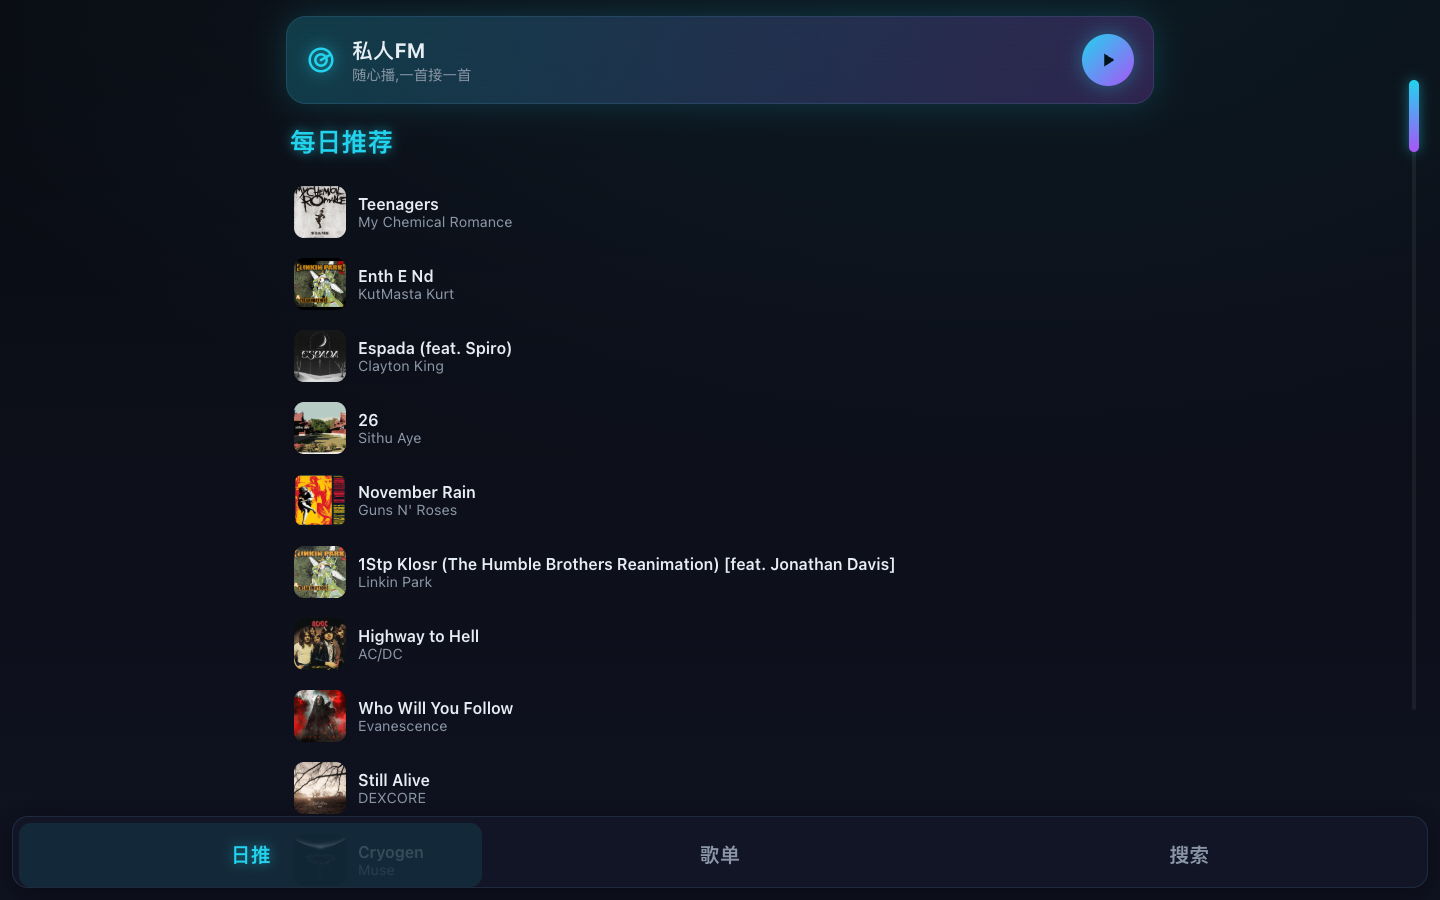
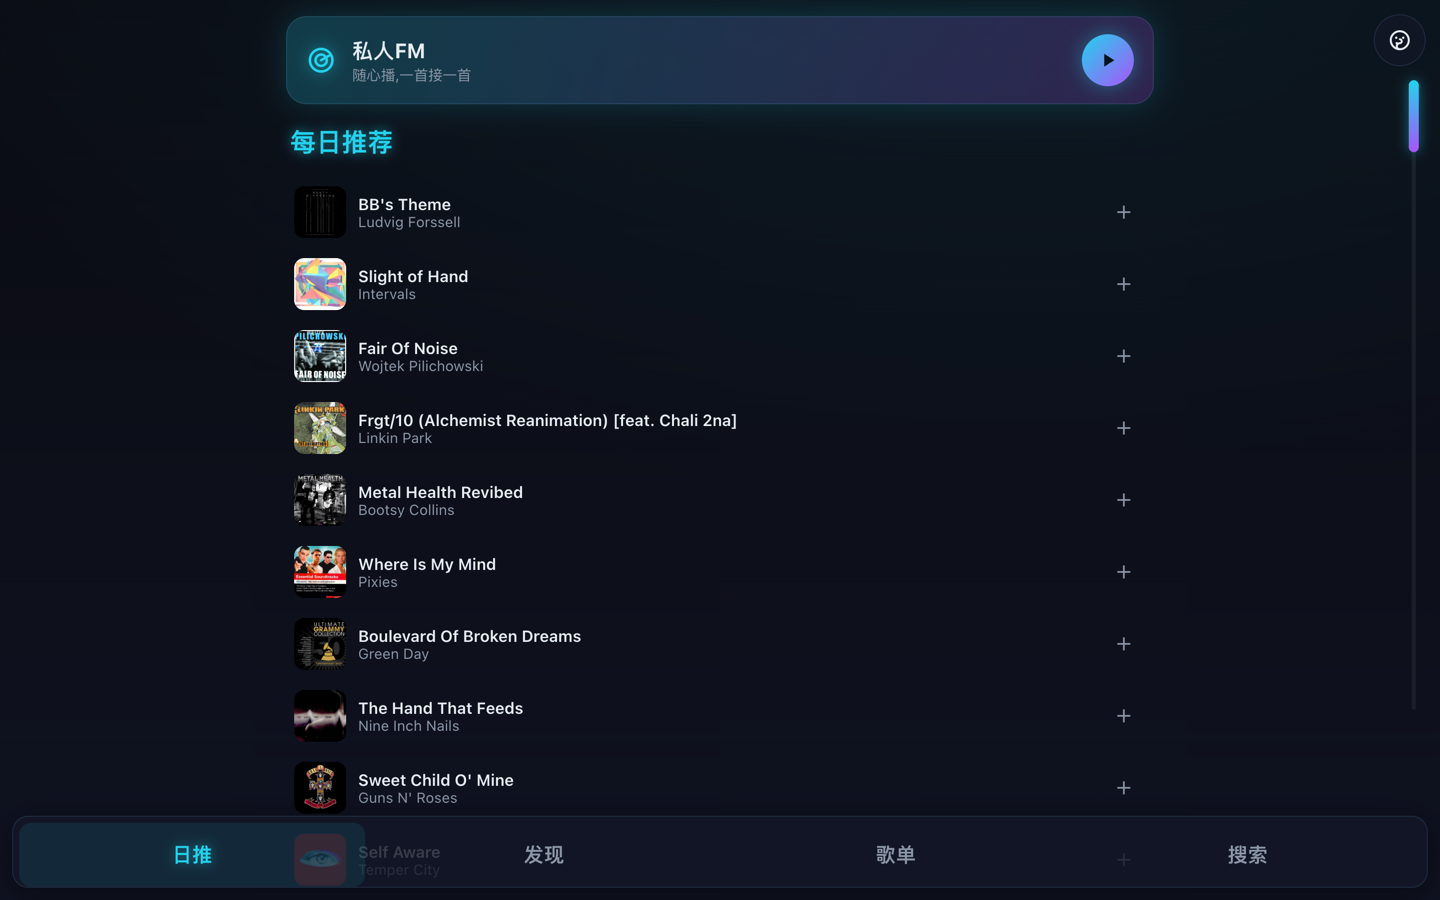
docs: DEPLOY.md 正式化 + 更新界面截图
- DEPLOY.md 口吻与 README 对齐(保留全部步骤与 #mac/#nas/#vps 锚点)。
- 三张界面截图重新采集为当前 UI:首页私人FM、分栏播放页(中英对照
  滚动歌词)、我的歌单网格。

diff --git a/DEPLOY.md b/DEPLOY.md
@@ -1,85 +1,85 @@
 # 部署指南
 
-这套程序是两个容器:`app`(网页 + 后端)和 `ncm-api`(网易云接口)。要让特斯拉用上,需要把它跑在某台机器上,并给一个**公网 https 地址**让车机浏览器打开。
+本项目由两个容器组成:`app`(网页 + 后端)与 `ncm-api`(网易云接口)。部署的目标是将其运行在一台常开机器上,并对外提供一个 **公网 HTTPS 地址**,供特斯拉车机浏览器访问。
 
-下面按设备分三种,挑一种就行。
+下列三种宿主环境任选其一:
 
-- [Mac / 电脑,先试试](#mac)
-- [群晖 NAS(常年在线,推荐)](#nas)
+- [Mac / 本地电脑](#mac)
+- [群晖 NAS(推荐)](#nas)
 - [VPS / 云服务器](#vps)
 
-先决条件都一样:装 Docker,准备好手机(扫码登录用一次)。
+**先决条件**:已安装 Docker;一部手机用于扫码登录(仅需一次)。
 
 ---
 
 <a id="mac"></a>
 
-## A. Mac / 电脑,先试试
+## A. Mac / 本地电脑
 
-适合先在车上体验一下。用车时电脑要开着、脚本窗口要留着。
+适用于快速体验。使用期间需保持电脑开机、脚本窗口保留。
 
-1. 安装并打开 [Docker Desktop](https://www.docker.com/products/docker-desktop/)。
-2. 下载项目并运行脚本:
+1. 安装并启动 [Docker Desktop](https://www.docker.com/products/docker-desktop/)。
+2. 获取项目并运行部署脚本:
    ```bash
    git clone https://github.com/JovanCai/TeslaNetEaseMusic.git
    cd TeslaNetEaseMusic
    ./deploy.sh
    ```
-3. 按提示用手机网易云 App 扫码登录。脚本最后会打印一行
+3. 按提示使用手机网易云 App 扫码登录。脚本结束时输出一行
    `https://xxxx.trycloudflare.com`。
-4. 把这行地址在**特斯拉车机浏览器**里打开。
+4. 在特斯拉车机浏览器中打开该地址。
 
-这个临时地址每次运行会变。想要固定地址,看下面的群晖或 VPS 方案。
+该临时地址每次运行都会变化。如需固定地址,请采用群晖或 VPS 方案。
 
 ---
 
 <a id="nas"></a>
 
-## B. 群晖 NAS(常年在线,推荐)
+## B. 群晖 NAS(推荐)
 
-群晖一直开机,适合天天用。**没有公网 IP 也可以** —— Cloudflare 隧道由群晖主动向外连接,Cloudflare 给你一个公网 https 地址,不用开端口映射。
+群晖常年开机,适合长期使用。**无需公网 IP** —— Cloudflare Tunnel 由群晖主动向外建立连接,由 Cloudflare 分配公网 HTTPS 地址,无需端口映射。
 
-需要一个挂在 Cloudflare 上的域名(免费套餐即可;新域名约 ¥100/年)。
+固定地址需要一个托管在 Cloudflare 的域名(免费套餐即可;新域名约 ¥100/年)。
 
-### 1) 在群晖上装 Docker
-DSM 套件中心安装 **Container Manager**(旧版叫 Docker)。
+### 1) 安装 Docker
+在 DSM 套件中心安装 **Container Manager**(旧版名为 Docker)。
 
-### 2) 把代码放到群晖
-用 SSH 登录群晖后:
+### 2) 获取代码
+通过 SSH 登录群晖后执行:
 ```bash
 git clone https://github.com/JovanCai/TeslaNetEaseMusic.git
 cd TeslaNetEaseMusic
 cp .env.example .env
-# 群晖的 80 端口常被 DSM 占用,建议在 .env 设一个别的:
+# 群晖的 80 端口通常被 DSM 占用,建议在 .env 中另设端口:
 #   APP_PORT=8920
 ```
 
-### 3) 选一种上网方式
+### 3) 选择对外访问方式
 
-**不想买域名 → 快速隧道(免费,地址临时但群晖常开时基本不变)**
+**方式一:快速隧道(免费,地址临时;群晖常开时基本稳定)**
 ```bash
 docker compose --profile quick up -d --build
-# 等十几秒,拿地址:
+# 等待约十余秒后获取地址:
 docker compose logs cloudflared-quick | grep -o 'https://[a-z0-9-]*\.trycloudflare\.com'
 ```
-把打印出来的 `https://xxxx.trycloudflare.com` 在特斯拉浏览器打开。群晖重启后地址会变,重新看一次日志即可。
+在特斯拉浏览器中打开输出的 `https://xxxx.trycloudflare.com`。群晖重启后地址会变化,重新查看日志即可。
 
-**想要固定地址(如 `music.你的域名.com`)→ 命名隧道(需要一个加到 Cloudflare 的域名)**
-1. 登录 [Cloudflare Zero Trust](https://one.dash.cloudflare.com/) → **Networks → Tunnels → Create a tunnel** → 选 **Cloudflared** → 起个名 → **Next**。
-2. 到 **Install and Run** 这步:页面给的安装命令里,`service install` 后面那串
-   `eyJhIjoi……` 就是 **token**。**只复制这串 token**,不用下载运行那个安装程序(我们用 Docker 跑)。
-3. 点 **Next** 到 **Route Tunnel / Public Hostname**:
-   - Subdomain 填 `music`(随意),Domain 选你的域名 → 得到 `music.你的域名.com`
-   - Type 选 **HTTP**,URL 填 `app:80` → 保存。
-4. 把 token 填进 `.env`:`CLOUDFLARE_TUNNEL_TOKEN=粘贴那串token`,然后:
+**方式二:命名隧道(固定地址,如 `music.你的域名.com`;需一个已加入 Cloudflare 的域名)**
+1. 登录 [Cloudflare Zero Trust](https://one.dash.cloudflare.com/) → **Networks → Tunnels → Create a tunnel** → 选择 **Cloudflared** → 命名 → **Next**。
+2. 在 **Install and Run** 步骤:页面提供的安装命令中,`service install` 后的
+   `eyJhIjoi……` 即为 **token**。**仅复制该 token**,无需下载运行安装程序(本项目通过 Docker 运行)。
+3. 继续 **Next** 至 **Route Tunnel / Public Hostname**:
+   - Subdomain 填 `music`(可自定义),Domain 选择你的域名,得到 `music.你的域名.com`。
+   - Type 选择 **HTTP**,URL 填 `app:80`,保存。
+4. 将 token 写入 `.env`:`CLOUDFLARE_TUNNEL_TOKEN=粘贴该 token`,然后:
    ```bash
    docker compose --profile tunnel up -d --build
    ```
 
-### 4) 登录一次
-浏览器打开你的地址(快速隧道地址 / `https://music.你的域名.com` / 或群晖局域网 `http://群晖IP:APP_PORT`),用手机扫码登录。cookie 存进数据卷,以后免登录、群晖重启也不丢。
+### 4) 登录
+在浏览器中打开你的地址(快速隧道地址 / `https://music.你的域名.com` / 或群晖局域网 `http://群晖IP:APP_PORT`),使用手机扫码登录。cookie 存入数据卷,后续免登录,群晖重启也不丢失。
 
-> 用 Container Manager 图形界面也行:把项目建成一个“项目(Project)”,选 `docker-compose.yml`,环境变量里填好 `.env` 的内容;命令行更省事。
+> 也可使用 Container Manager 图形界面:将项目创建为一个 **项目(Project)**,选择 `docker-compose.yml`,并在环境变量中填入 `.env` 的内容。命令行方式更为简便。
 
 ---
 
@@ -87,15 +87,15 @@ docker compose logs cloudflared-quick | grep -o 'https://[a-z0-9-]*\.trycloudfla
 
 ## C. VPS / 云服务器
 
-有公网 IP 的服务器。日本无墙,网易云接口直连即可,选 Tokyo 机房延迟低(さくら / ConoHa / Vultr,约 ¥700/月)。
+适用于拥有公网 IP 的服务器。日本境内可直连网易云接口,建议选择东京机房以降低延迟(さくら / ConoHa / Vultr,约 ¥700/月)。
 
-两种给 https 的方式:
+提供 HTTPS 的两种方式:
 
-**方式一:也用 Cloudflare 隧道**(和群晖一样,不依赖服务器开 443)
-按上面群晖的第 3、4 步做即可。
+**方式一:Cloudflare 隧道**(与群晖相同,不依赖服务器开放 443)
+参照上文群晖的第 3、4 步操作。
 
-**方式二:域名 + Caddy 自动证书**（服务器有公网 IP 时更直接）
-把域名 A 记录指向服务器 IP,然后在 `docker-compose.yml` 里加一个 Caddy 反代:
+**方式二:域名 + Caddy 自动证书**(服务器具备公网 IP 时更直接)
+将域名 A 记录指向服务器 IP,然后在 `docker-compose.yml` 中增加一个 Caddy 反向代理:
 ```yaml
   caddy:
     image: caddy:2
@@ -105,7 +105,7 @@ docker compose logs cloudflared-quick | grep -o 'https://[a-z0-9-]*\.trycloudfla
     restart: unless-stopped
     volumes: [caddy-data:/data]
 ```
-并在 `volumes:` 下加 `caddy-data:`,把 `app` 的 `ports` 去掉(只让 Caddy 对外)。启动:
+并在 `volumes:` 下增加 `caddy-data:`,同时移除 `app` 的 `ports`(仅由 Caddy 对外)。启动:
 ```bash
 git clone https://github.com/JovanCai/TeslaNetEaseMusic.git && cd TeslaNetEaseMusic
 cp .env.example .env
@@ -117,8 +117,8 @@ docker compose up -d --build
 
 ## 常见问题
 
-- **开区域解锁 / 灰歌解锁**:在 `.env` 设 `REGION_UNLOCK=true` 或 `ENABLE_UNBLOCK=true`,`docker compose up -d`(运行时生效,不必重建)。
-- **换账号 / cookie 过期**:`docker compose exec app rm -f /data/cookie && docker compose restart app`,再打开页面扫码。(Mac 上直接 `./relogin.sh`。)
-- **车机打不开地址**:确认用的是 https 地址(隧道或 Caddy 给的),车机对纯 http 比较敏感。
-- **升级版本**:`git pull && docker compose up -d --build`,cookie 在数据卷里不受影响。
-- **端口冲突**:在 `.env` 设 `APP_PORT` 换一个空闲端口。
+- **启用区域解锁 / 灰歌解锁**:在 `.env` 设置 `REGION_UNLOCK=true` 或 `ENABLE_UNBLOCK=true`,执行 `docker compose up -d`(运行时生效,无需重建)。
+- **切换账号 / cookie 过期**:执行 `docker compose exec app rm -f /data/cookie && docker compose restart app`,再打开页面扫码。(Mac 上可直接运行 `./relogin.sh`。)
+- **车机无法打开地址**:确认使用的是 HTTPS 地址(隧道或 Caddy 提供),车机对纯 HTTP 较为敏感。
+- **升级版本**:执行 `git pull && docker compose up -d --build`,cookie 位于数据卷,不受影响。
+- **端口冲突**:在 `.env` 中设置 `APP_PORT` 更换为空闲端口。